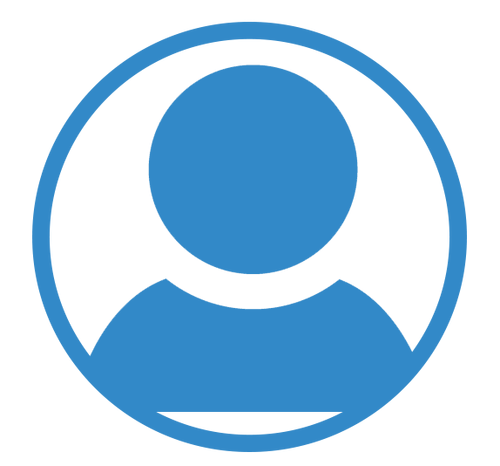
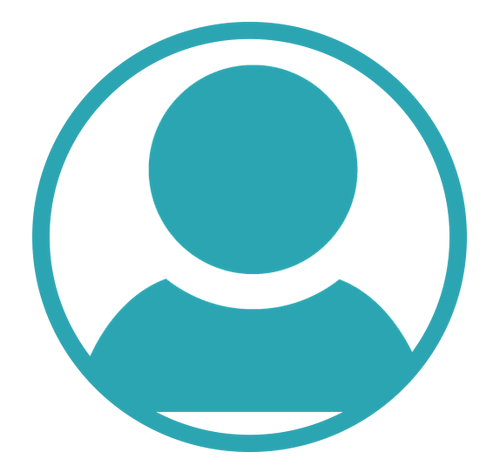
New color design

diff --git a/src/client/src/css/style.css b/src/client/src/css/style.css
@@ -2,6 +2,7 @@
 // General styling
 ========================================================*/
 p {
+  color: #79adc4;
   font-size: 16px;
 }
 
@@ -13,6 +14,7 @@ h3 {
   text-align: center;
   font-size: 24px;
   -webkit-margin-after: 0px;
+  color: #eeff00;
 }
 
 /* ======================================================== 
@@ -32,7 +34,7 @@ h3 {
   cursor: pointer;
   float: right;
   font-weight: 300;
-  color: #4c6875;
+  color: #eeff00;
 }
 
 .signin-register-btn {
@@ -45,8 +47,8 @@ h3 {
   margin: 40px;
   font-size: 14px;
   text-decoration: none;
-  color: white;
-  background-color: rgba(0, 97, 224, 0.61);
+  color: #79adc4;
+  background-color: rgb(0, 101, 119);
   border: none;
   padding: 0px 15px;
   border-radius: 8px 8px 8px 8px;
@@ -54,7 +56,7 @@ h3 {
 }
 
 .signin-register-btn:hover {
-  background: #25628b;
+  color: black;
 }
 
 /* ======================================================== 
@@ -70,28 +72,29 @@ h3 {
 }
 
 .search-input {
+  color: #79adc4;
   font-family: 'Sarpanch', arial;
   float: left;
   height: 40px;
   width: 180px;
-  background-color: #edeff0;
+  background-color: rgb(36, 36, 36);
   padding: 10px 15px;
-  border: 3px solid #d7dbdf;
+  border: 1px solid rgb(0, 101, 119);
   border-right: none;
   border-radius: 0.35em 0 0 0.35em;
   outline: none;
 }
 
 .search-input:hover {
-  background-color: #e7e7e7;
+  background-color: black;
 }
 
 .search-button {
   float: right;
   height: 40px;
   outline: none;
-  background-color: rgba(0, 97, 224, 0.61);
-  border: none;
+  background-color: rgb(0, 101, 119);
+  border: 1px solid rgb(0, 101, 119);
   padding: 0px 15px;
   margin: 0px 5px 0px 0px;
   border-radius: 0 0.35em 0.35em 0;
@@ -99,7 +102,7 @@ h3 {
 }
 
 .search-button:hover {
-  background: #25628b;
+  color: black;
 }
 
 /* ======================================================== 
@@ -116,13 +119,13 @@ h3 {
   height: 40px;
   width: 100%;
   line-height: 10px;
-  background-color: #4c687541;
-  border: 1px solid #4c6875a4;
+  background-color: rgb(15, 15, 15);
+  border: 2px ridge rgb(0, 101, 119);
 }
 
 .cryptos-header p {
   font-weight: 300px;
-  color: #4c6875;
+  color: #eeff00;
 }
 
 .cryptos-header p {
@@ -141,11 +144,12 @@ h3 {
 .cryptos-item td {
   height: 50px;
   width: 200px;
-  border-bottom: 1px solid #d7dbdf;
+  color: white;
+  border-bottom: 1px solid rgb(0, 101, 119);
 }
 
 .text-symbol-styling {
-  color: #4c6875;
+  color: #79adc4;
 }
 
 .search-error {
@@ -158,28 +162,29 @@ h3 {
 ========================================================*/
 .footer {
   height: 300px;
-  border-top: 1px solid rgba(54, 110, 184, 0.678);
-  background-color: rgba(72, 133, 212, 0.678);
+  border-top: 1px solid rgb(0, 101, 119);
+  background-color: rgb(15, 15, 15);
 }
 
 .footer p {
   padding: 120px;
   text-align: center;
+  color: #79adc4;
 }
 
 /* ======================================================== 
-// Signin and registration modal shared styling
+// Signin and registration modal styling
 ========================================================*/
 .modal-close {
   text-align: right;
   margin: 5px 5px 0px 0px;
-  color: rgb(87, 87, 87);
+  color: #79adc4;
   font-weight: bold;
   cursor: pointer;
 }
 
 .modal-close:hover {
-  color: black;
+  color: rgb(0, 101, 119);
 }
 
 .form-control {
@@ -187,10 +192,16 @@ h3 {
   height: 40px;
   border-radius: 0 0.35em 0.35em 0;
   font-size: 1em;
-  background-color: #edeff0;
+  font-family: 'Sarpanch', arial;
+  background-color: rgb(36, 36, 36);
+  color: #79adc4;
   padding: 10px 15px;
-  border: 3px solid #d7dbdf;
+  border: 2px solid rgb(0, 101, 119);
   outline: none;
+}
+
+.form-control:hover {
+  background-color: black;
 }
 
 .form-group.has-feedback {
@@ -221,6 +232,15 @@ input.form-control {
   cursor: pointer;
 }
 
+.create-account p {
+  color: #79adc4;
+}
+
+.create-account p:hover {
+  color: rgb(0, 101, 119);
+}
+
+
 /* ======================================================== 
 // Signin styling
 ========================================================*/
@@ -234,9 +254,9 @@ input.form-control {
   right: 0;
   top: 100px;
   margin-top: 80px;
-  background-color: rgba(255, 255, 255, 1);
+  background-color: rgb(15, 15, 15);
   border-radius: 0 0.35em 0.35em 0;
-  border: 2px solid #4c6875a4;
+  border: 2px solid rgb(0, 101, 119);
   border-style: ridge;
 }
 
@@ -255,8 +275,8 @@ input.form-control {
   font-size: 120%;
   line-height: 40px;
   text-decoration: none;
-  color: white;
-  background-color: rgba(0, 97, 224, 0.61);
+  color: #79adc4;
+  background-color: rgb(0, 101, 119);
   border: none;
   padding: 0px 15px;
   border-radius: 8px 8px 8px 8px;
@@ -264,22 +284,17 @@ input.form-control {
 }
 
 .signin-submit:hover {
-  background: #25628b;
+  color: black;
 }
 
 .signin-form a {
-  color: rgba(0, 97, 224, 0.61);
+  color: rgb(0, 101, 119);
   text-align: center;
   text-decoration: none;
 }
 
 .signin-form a:hover { 
-  color: #25628b;
-}
-
-.signin p {
-  text-align: center;
-  margin-bottom: 40px;
+  color: black;
 }
 
 /* ======================================================== 
@@ -295,9 +310,9 @@ input.form-control {
   right: 0;
   top: 100px;
   margin-top: 80px;
-  background-color: rgba(255, 255, 255, 1);
+  background-color: rgb(15, 15, 15);
   border-radius: 0 0.35em 0.35em 0;
-  border: 2px solid #4c6875a4;
+  border: 2px solid rgb(0, 101, 119);
   border-style: ridge;
 }
 
@@ -316,8 +331,8 @@ input.form-control {
   font-size: 120%;
   line-height: 40px;
   text-decoration: none;
-  color: white;
-  background-color: rgba(0, 97, 224, 0.61);
+  color: #79adc4;
+  background-color: rgb(0, 101, 119);
   border: none;
   padding: 0px 15px;
   border-radius: 8px 8px 8px 8px;
@@ -325,7 +340,7 @@ input.form-control {
 }
 
 .register-submit:hover {
-  background: #25628b;
+  color: black;
 }
 
 .register p {
@@ -361,5 +376,5 @@ input.form-control {
 }
 
 .signout:hover { 
-  background-color: #25628b;
+  color: black;
 }

diff --git a/src/client/src/components/children/Search.js b/src/client/src/components/children/Search.js
@@ -53,7 +53,7 @@ class Search extends Component {
             placeholder="Search currency"
             className="search-input" />
         <button type="submit" className="search-button">
-          <svg fill="#fff" height="24" viewBox="0 0 23 23" width="24" xmlns="http://www.w3.org/2000/svg">
+          <svg fill="#79adc4" height="24" viewBox="0 0 23 23" width="24" xmlns="http://www.w3.org/2000/svg">
             <path d="M15.5 14h-.79l-.28-.27C15.41 12.59 16 11.11 16 9.5 16 5.91 13.09 3 9.5 3S3 5.91 3 9.5 5.91 16 9.5 16c1.61 0 3.09-.59 4.23-1.57l.27.28v.79l5 4.99L20.49 19l-4.99-5zm-6 0C7.01 14 5 11.99 5 9.5S7.01 5 9.5 5 14 7.01 14 9.5 11.99 14 9.5 14z"/>
             <path d="M0 0h24v24H0z" fill="none"/>
           </svg>

diff --git a/src/client/src/css/index.css b/src/client/src/css/index.css
@@ -1,10 +1,23 @@
 /*======================================================== 
-// Page styling
+// General page styling
 ========================================================*/
 @import url('https://fonts.googleapis.com/css?family=Sarpanch');
 
 body {
   font-family: 'Sarpanch', arial;
   margin-top: 20px;
-  background-color: rgb(250, 252, 255);
+  background-color: rgb(36, 36, 36);
+}
+
+::-webkit-input-placeholder { /* Chrome/Opera/Safari */
+  color: #79adc4;
+}
+::-moz-placeholder { /* Firefox 19+ */
+  color: #79adc4;
+}
+:-ms-input-placeholder { /* IE 10+ */
+  color: #79adc4;
+}
+:-moz-placeholder { /* Firefox 18- */
+  color: #79adc4;
 }

diff --git a/src/client/src/components/Header.js b/src/client/src/components/Header.js
@@ -1,13 +1,11 @@
 import React, { Component } from 'react';
-import { connect } from 'react-redux';
 
 import CryptocurrencyLogo from '../img/cryptocurrency_logo.png';
 
 class Header extends Component {
   /*======================================================== 
-  // This is the header for the app which includes a logo,
-  // website name, and account related button that changes
-  // depending on the state of the user.
+  // This is the header for the app which includes a logo
+  // and the website name.
   ========================================================*/
   render () {
     return (
